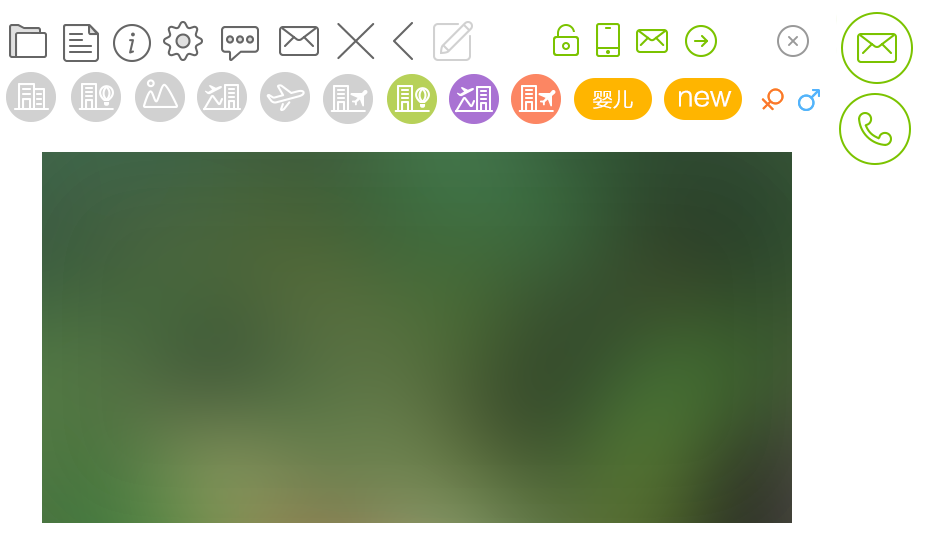
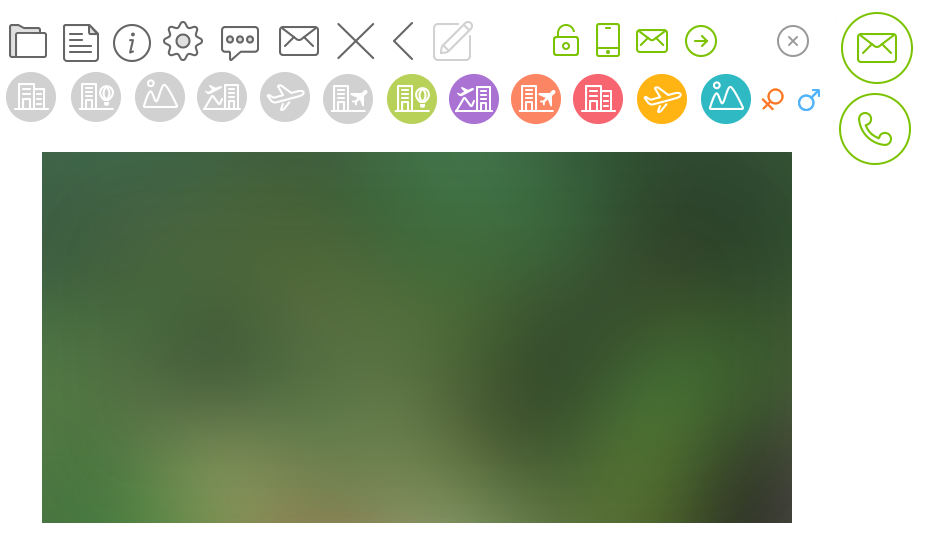
删除无用图标  全部订单图标

Changed region(s): [[0.5855, 0.1234, 0.8013, 0.2468]]

diff --git a/assets/css/user.css b/assets/css/user.css
@@ -936,7 +936,7 @@ i, em {
 }
 
 .user_hotel1 {
-  background-position: -7.2rem -2.9rem;
+  background-position: -4.84rem -0.59rem;
 }
 
 .user_hotel2 {
@@ -944,23 +944,23 @@ i, em {
 }
 
 .user_air {
-  background-position: -7.2rem -1.52rem;
+  background-position: -5.38rem -0.59rem;
 }
 
 .user_spot {
-  background-position: -3.34rem -.54rem;
+  background-position: -5.92rem -0.59rem;
 }
 
 .user_hoteltour {
-  background-position: -3.27rem -.58rem;
+  background-position: -3.26rem -0.59rem;
 }
 
 .user_fligthotle {
-  background-position: -4.3rem -.58rem;
+  background-position: -4.32rem -0.59rem;
 }
 
 .user_fligthotletour {
-  background-position: -3.78rem -.58rem;
+  background-position: -3.78rem -0.59rem;
 }
 
 /*全部订单页结束*/

diff --git a/assets/user/scripts/user-logined.js b/assets/user/scripts/user-logined.js
@@ -11,7 +11,7 @@
     $("#preloader").delay(400).fadeOut("medium");
 
     vlm.init();
-    
+
     var email = localStorage.email;
     var phone = localStorage.phone;
     var password = localStorage.password;
